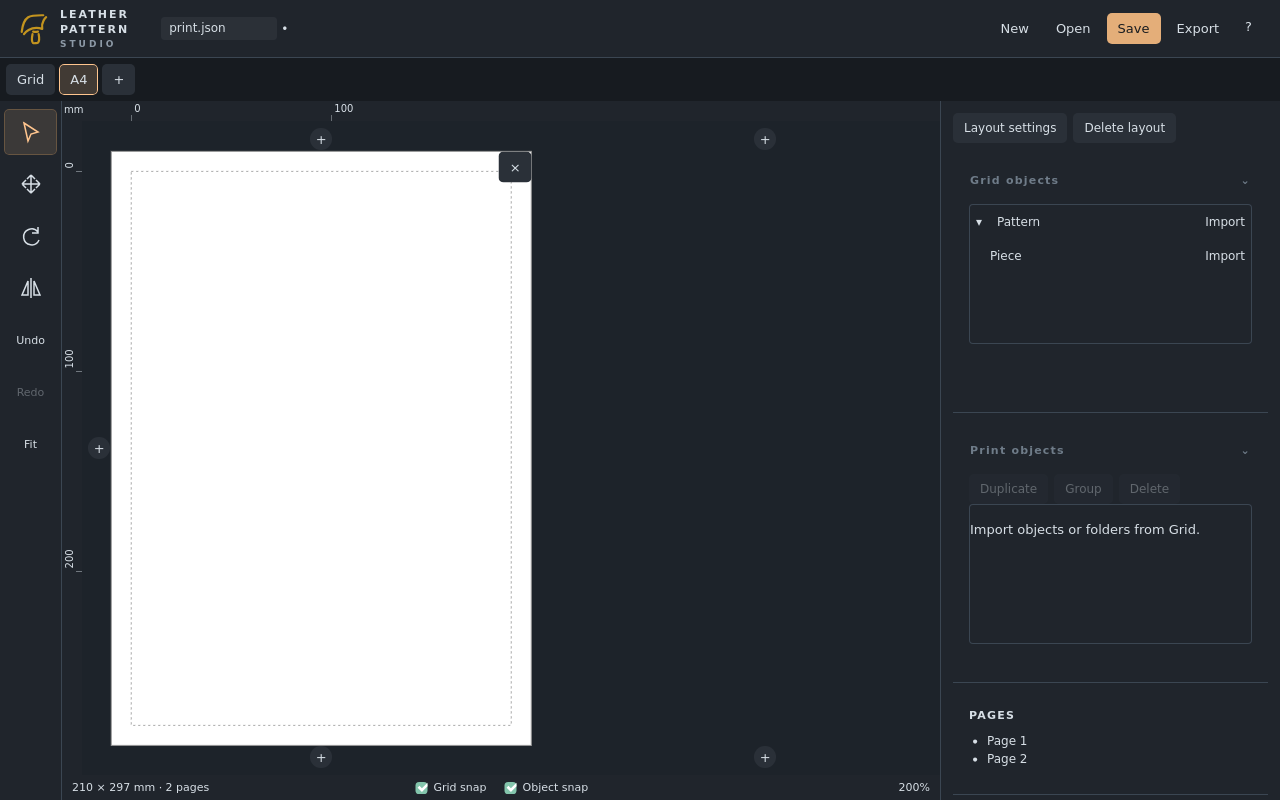
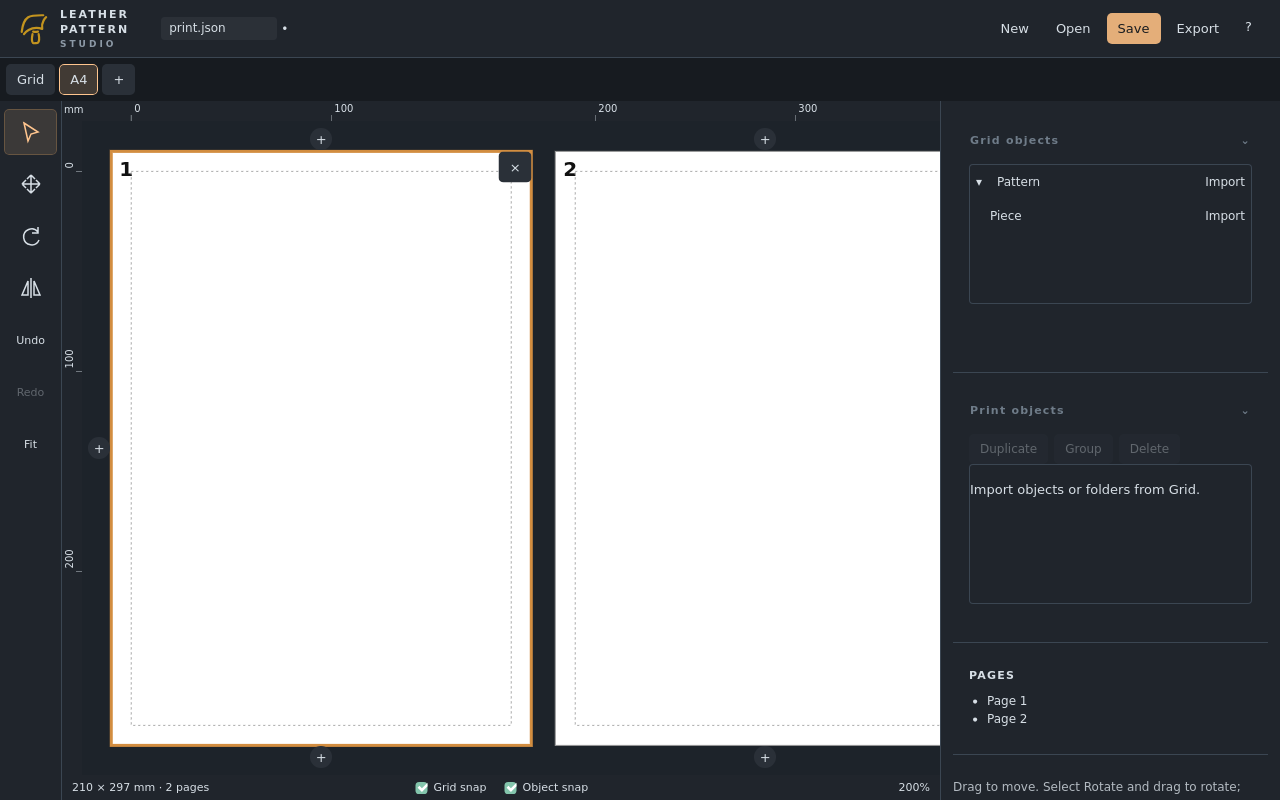
Add print tab menus and reordering and align wheel navigation

diff --git a/src/vue/PrintWorkspace.vue b/src/vue/PrintWorkspace.vue
@@ -17,6 +17,11 @@ import {
   nextTick,
 } from "vue";
 import {
+  ContextMenuRoot,
+  ContextMenuTrigger,
+  ContextMenuPortal,
+  ContextMenuContent,
+  ContextMenuItem,
   DialogRoot,
   DialogPortal,
   DialogOverlay,
@@ -414,8 +419,8 @@ function openCreate() {
   error.value = "";
   creating.value = true;
 }
-function openSettings() {
-  const l = layout.value;
+function openSettings(id = active.value) {
+  const l = layouts.value.find((l) => l.id === id);
   if (!l) return;
   settingsId.value = l.id;
   format.value = "Custom";
@@ -490,15 +495,15 @@ async function create() {
     error.value = String(reason);
   }
 }
-async function deleteLayout() {
-  const l = layout.value;
+async function deleteLayout(id = active.value) {
+  const l = layouts.value.find((l) => l.id === id);
   if (!l) return;
   if (!window.confirm(`Delete print layout “${l.name}”?`)) return;
   await editor.commit({
     ...editor.document,
     printLayouts: layouts.value.filter((p) => p.id !== l.id),
   });
-  await switchTab("");
+  if (active.value === id) await switchTab("");
 }
 async function importSource(id: string) {
   const l = layout.value;
@@ -530,6 +535,92 @@ async function importSource(id: string) {
   } catch (reason) {
     error.value = String(reason);
   }
+}
+const tabDrop = ref<{ id: string; after: boolean }>();
+let tabPointer:
+  | {
+      id: string;
+      pointerId: number;
+      x: number;
+      y: number;
+      active: boolean;
+      document: typeof editor.document;
+    }
+  | undefined;
+let suppressTabClick = false;
+function tabDown(event: PointerEvent, id: string) {
+  if (event.button !== 0 || busy.value || editor.busy) return;
+  tabEnd();
+  tabPointer = {
+    id,
+    pointerId: event.pointerId,
+    x: event.clientX,
+    y: event.clientY,
+    active: false,
+    document: editor.document,
+  };
+  window.addEventListener("pointermove", tabMove);
+  window.addEventListener("pointerup", tabUp);
+  window.addEventListener("pointercancel", tabEnd);
+  window.addEventListener("blur", tabEnd);
+  window.addEventListener("keydown", tabEscape);
+}
+function tabEscape(event: KeyboardEvent) {
+  if (event.key === "Escape") tabEnd();
+}
+function tabMove(event: PointerEvent) {
+  const d = tabPointer;
+  if (!d || event.pointerId !== d.pointerId) return;
+  if (d.document !== editor.document) {
+    tabEnd();
+    return;
+  }
+  if (!d.active && Math.hypot(event.clientX - d.x, event.clientY - d.y) < 6)
+    return;
+  d.active = true;
+  event.preventDefault();
+  const target = document
+    .elementFromPoint(event.clientX, event.clientY)
+    ?.closest<HTMLElement>("[data-print-tab]");
+  tabDrop.value = target
+    ? {
+        id: target.dataset.printTab!,
+        after:
+          event.clientX >
+          target.getBoundingClientRect().left + target.offsetWidth / 2,
+      }
+    : undefined;
+}
+function tabEnd() {
+  tabPointer = undefined;
+  tabDrop.value = undefined;
+  window.removeEventListener("pointermove", tabMove);
+  window.removeEventListener("pointerup", tabUp);
+  window.removeEventListener("pointercancel", tabEnd);
+  window.removeEventListener("blur", tabEnd);
+  window.removeEventListener("keydown", tabEscape);
+}
+async function tabUp(event: PointerEvent) {
+  const d = tabPointer,
+    t = tabDrop.value;
+  if (!d || event.pointerId !== d.pointerId) return;
+  tabEnd();
+  if (!d.active) return;
+  suppressTabClick = true;
+  setTimeout(() => {
+    suppressTabClick = false;
+  }, 0);
+  if (!t || t.id === d.id || d.document !== editor.document) return;
+  const reordered = layouts.value.filter((l) => l.id !== d.id),
+    item = layouts.value.find((l) => l.id === d.id)!;
+  reordered.splice(
+    reordered.findIndex((l) => l.id === t.id) + (t.after ? 1 : 0),
+    0,
+    item,
+  );
+  if (reordered.every((l, i) => l.id === layouts.value[i].id)) return;
+  cancel();
+  await editor.commit({ ...editor.document, printLayouts: reordered });
 }
 async function tabKey(event: KeyboardEvent) {
   if (!["ArrowLeft", "ArrowRight", "Home", "End"].includes(event.key)) return;
@@ -2013,11 +2104,19 @@ async function up() {
   } else cancel();
 }
 function wheel(event: WheelEvent) {
+  if (!event.ctrlKey && !event.metaKey) {
+    pan.value = {
+      x: pan.value.x - event.deltaX,
+      y: pan.value.y - event.deltaY,
+    };
+    draw();
+    return;
+  }
   const p = pixel(event),
     old = zoom.value;
   zoom.value = Math.max(
     0.1,
-    Math.min(20, old * Math.exp(-event.deltaY * 0.001)),
+    Math.min(20, old * Math.exp(-event.deltaY * 0.002)),
   );
   pan.value = {
     x: p.x - ((p.x - pan.value.x) * zoom.value) / old,
@@ -2187,6 +2286,7 @@ watch(canvas, (el) => {
   }
 });
 onUnmounted(() => {
+  tabEnd();
   sourceEnd();
   if (moveFrame) cancelAnimationFrame(moveFrame);
   generation++;
@@ -2213,16 +2313,42 @@ defineExpose({
     @keydown="tabKey"
   >
     <button role="tab" :aria-selected="!layout" @click="switchTab('')">
-      Grid</button
-    ><button
-      v-for="tab in layouts"
-      :key="tab.id"
-      role="tab"
-      :aria-selected="active === tab.id"
-      @click="switchTab(tab.id)"
-    >
-      {{ tab.name }}</button
-    ><button
+      Grid
+    </button>
+    <ContextMenuRoot v-for="tab in layouts" :key="tab.id">
+      <ContextMenuTrigger as-child>
+        <button
+          role="tab"
+          :data-print-tab="tab.id"
+          :aria-selected="active === tab.id"
+          :class="{
+            'tab-drop-before': tabDrop?.id === tab.id && !tabDrop.after,
+            'tab-drop-after': tabDrop?.id === tab.id && tabDrop.after,
+          }"
+          :draggable="false"
+          @dragstart.prevent
+          @pointerdown="tabDown($event, tab.id)"
+          @click="!suppressTabClick && switchTab(tab.id)"
+        >
+          {{ tab.name }}
+        </button>
+      </ContextMenuTrigger>
+      <ContextMenuPortal
+        ><ContextMenuContent class="object-context-menu">
+          <ContextMenuItem
+            :disabled="busy || e.busy"
+            @select="openSettings(tab.id)"
+            >Layout settings</ContextMenuItem
+          >
+          <ContextMenuItem
+            :disabled="busy || e.busy"
+            @select="deleteLayout(tab.id)"
+            >Delete layout</ContextMenuItem
+          >
+        </ContextMenuContent></ContextMenuPortal
+      >
+    </ContextMenuRoot>
+    <button
       aria-label="Create print layout"
       :disabled="!e.ready || busy"
       @click="openCreate"
@@ -2518,10 +2644,6 @@ defineExpose({
       </div>
     </div>
     <aside aria-label="Print objects and settings">
-      <div class="print-actions">
-        <button @click="openSettings">Layout settings</button
-        ><button @click="deleteLayout">Delete layout</button>
-      </div>
       <PanelSection
         section-key="print-grid-objects"
         title="Grid objects"
@@ -2841,6 +2963,12 @@ defineExpose({
 }
 .page-contents li {
   margin: 4px 0;
+}
+.tab-drop-before {
+  box-shadow: -3px 0 var(--accent);
+}
+.tab-drop-after {
+  box-shadow: 3px 0 var(--accent);
 }
 .print-tabs {
   display: flex;

diff --git a/tests/print.spec.ts b/tests/print.spec.ts
@@ -76,12 +76,13 @@ async function create(page: Page) {
           clientX: r.left,
           clientY: r.top,
           deltaY: delta,
+          ctrlKey: true,
           bubbles: true,
           cancelable: true,
         }),
       );
     },
-    -Math.log(2 / z) / 0.001,
+    -Math.log(2 / z) / 0.002,
   );
   await canvas.focus();
   await page.keyboard.down("Space");
@@ -239,8 +240,9 @@ test("custom paper units, settings, page additions, and cancellation", async ({
     .getByRole("button", { name: "Add page right 0,0", exact: true })
     .click();
   expect((await save(page)).printLayouts[0].pages).toHaveLength(2);
+  await page.getByRole("tab", { selected: true }).click({ button: "right" });
   await page
-    .getByRole("button", { name: "Layout settings", exact: true })
+    .getByRole("menuitem", { name: "Layout settings", exact: true })
     .click();
   dialog = page.getByRole("dialog");
   await dialog.getByLabel("Name", { exact: true }).fill("Letter pattern");
@@ -449,8 +451,9 @@ test("renders all artwork families and exported unit-aware labels", async ({
   await page
     .getByRole("button", { name: "Import Pattern", exact: true })
     .click();
+  await page.getByRole("tab", { selected: true }).click({ button: "right" });
   await page
-    .getByRole("button", { name: "Layout settings", exact: true })
+    .getByRole("menuitem", { name: "Layout settings", exact: true })
     .click();
   await page
     .getByRole("dialog")
@@ -591,7 +594,9 @@ test("Ctrl selects, numbers, moves and deletes pages with undo", async ({
   await page.keyboard.down("Control");
   await page.mouse.click(box.x + 100, box.y + 100);
   await page.screenshot({ path: "test-results/print-page-selection.png" });
-  await page.getByRole("button", {name:"Delete page 0,0",exact:true}).click();
+  await page
+    .getByRole("button", { name: "Delete page 0,0", exact: true })
+    .click();
   await page.keyboard.up("Control");
   let doc = await save(page);
   expect(doc.printLayouts[0].pages).toEqual([{ column: 1, row: 0 }]);
@@ -868,4 +873,67 @@ test("print tools select first, apply by right click, and mirror linked artwork"
   await expect(
     page.getByRole("button", { name: "Delete page 0,0", exact: true }),
   ).toHaveCount(0);
+});
+
+test("wheel pans print pages and Ctrl wheel zooms", async ({ page }) => {
+  await load(page);
+  await create(page);
+  const canvas = page.getByLabel("Print layout canvas");
+  const button = page.getByRole("button", {
+    name: "Add page above 0,0",
+    exact: true,
+  });
+  const before = (await button.boundingBox())!;
+  const zoomLabel = page.locator(".print-status > span").last();
+  const zoom = await zoomLabel.innerText();
+  await canvas.hover();
+  await page.mouse.wheel(0, 80);
+  await expect
+    .poll(async () => (await button.boundingBox())!.y)
+    .toBeCloseTo(before.y - 80, 0);
+  await expect(zoomLabel).toHaveText(zoom);
+  await page.keyboard.down("Control");
+  await page.mouse.wheel(0, -100);
+  await page.keyboard.up("Control");
+  await expect(zoomLabel).not.toHaveText(zoom);
+});
+
+test("print tab context menu targets its tab and drag reorders saved layouts", async ({
+  page,
+}) => {
+  await load(page);
+  await create(page);
+  await page
+    .getByRole("button", { name: "Create print layout", exact: true })
+    .click();
+  await page
+    .getByRole("dialog")
+    .getByRole("button", { name: "Create", exact: true })
+    .click();
+  const first = page.getByRole("tab", { name: "A4", exact: true }),
+    second = page.getByRole("tab", { name: "A4 2", exact: true });
+  await expect(second).toHaveAttribute("aria-selected", "true");
+  await first.click({ button: "right" });
+  await page
+    .getByRole("menuitem", { name: "Layout settings", exact: true })
+    .click();
+  await expect(
+    page.getByRole("dialog").getByLabel("Name", { exact: true }),
+  ).toHaveValue("A4");
+  await page
+    .getByRole("dialog")
+    .getByRole("button", { name: "Cancel", exact: true })
+    .click();
+  await expect(second).toHaveAttribute("aria-selected", "true");
+  const a = (await first.boundingBox())!,
+    b = (await second.boundingBox())!;
+  await page.mouse.move(b.x + b.width / 2, b.y + b.height / 2);
+  await page.mouse.down();
+  await page.mouse.move(a.x + 2, a.y + a.height / 2, { steps: 8 });
+  await page.mouse.up();
+  await expect(page.getByRole("tab").nth(0)).toHaveText("Grid");
+  await expect(page.getByRole("tab").nth(1)).toHaveText("A4 2");
+  expect(
+    (await save(page)).printLayouts.map((l: { name: string }) => l.name),
+  ).toEqual(["A4 2", "A4"]);
 });

diff --git a/docs/manual/printing.md b/docs/manual/printing.md
@@ -9,9 +9,11 @@ Print tabs arrange linked copies of Grid objects on physical sheets. They start 
 3. Choose millimetres, decimal inches, or fractional inches. Choose one of the right-aligned portrait/landscape paper icons; hover for labels.
 4. Press **Create**. Duplicate paper formats are allowed; automatic names receive a numeric suffix. The name follows format changes until you edit it; an edited name is preserved.
 
-Use **Layout settings** to rename a tab or change its paper, margin, and units. Switching units converts the existing dimensions; it never scales artwork. The initial margin is 10 mm. Dimensions must leave a positive printable area and cannot exceed 5,000 mm. Each layout supports up to 500 pages. **Delete layout** removes that layout after confirmation; undo restores it.
+Right-click a print tab and choose **Layout settings** to rename a tab or change its paper, margin, and units. Switching units converts the existing dimensions; it never scales artwork. The initial margin is 10 mm. Dimensions must leave a positive printable area and cannot exceed 5,000 mm. Each layout supports up to 500 pages. **Delete layout** in the same tab menu removes that layout after confirmation; undo restores it.
 
 ![Portrait and landscape icon-only orientation choices](/manual/images/print-orientation.png)
+
+Drag print tabs left or right to reorder them. Grid stays first. The order is saved with the project and supports undo/redo.
 
 ## Import and arrange objects
 
@@ -59,7 +61,7 @@ Ctrl-drag exposed paper to move one page and its contents. A page containing a s
 
 New print tabs fit and center all sheets. Returning to a tab restores its view. Tool settings open at the top-left beside the tools. Grid snap also aligns artwork centers with page centers and displays alignment guides; Alt bypasses snapping. Alt+right-click flips the clicked placement left/right along its local axes; add Ctrl to flip top/bottom.
 
-The wheel zooms and Space-drag pans. **Fit** shows all sheets. Movement snapping can be switched off below the canvas; Alt temporarily bypasses snapping. Print dimensions, measurements, and size-guide labels use the layout's units, including when Grid uses different units. Arbitrary text is unchanged.
+The wheel pans vertically; horizontal trackpad scrolling pans horizontally. Ctrl/⌘+wheel zooms around the pointer, and Space-drag pans. **Fit** shows all sheets. Movement snapping can be switched off below the canvas; Alt temporarily bypasses snapping. Print dimensions, measurements, and size-guide labels use the layout's units, including when Grid uses different units. Arbitrary text is unchanged.
 
 ## Preview and export
 

diff --git a/docs/manual/shortcuts.md b/docs/manual/shortcuts.md
@@ -72,7 +72,8 @@ With the print canvas or print object panel focused:
 | V / G / E / M | Select / Move / Rotate / Mirror (V places the pivot while a transform is active) |
 | Enter / right-click | Apply the active transform |
 | Space + drag | Pan |
-| Mouse wheel | Zoom around pointer |
+| Mouse wheel | Pan |
+| Ctrl/⌘ + mouse wheel | Zoom around pointer |
 | F | Fit all pages |
 | Shift / Ctrl / Alt + rotate drag | Snap to 5° / 10° / rotate freely (normal: 1°) |
 | Alt + right-click / Ctrl + Alt + right-click | Flip clicked print placement locally left/right / top/bottom |
